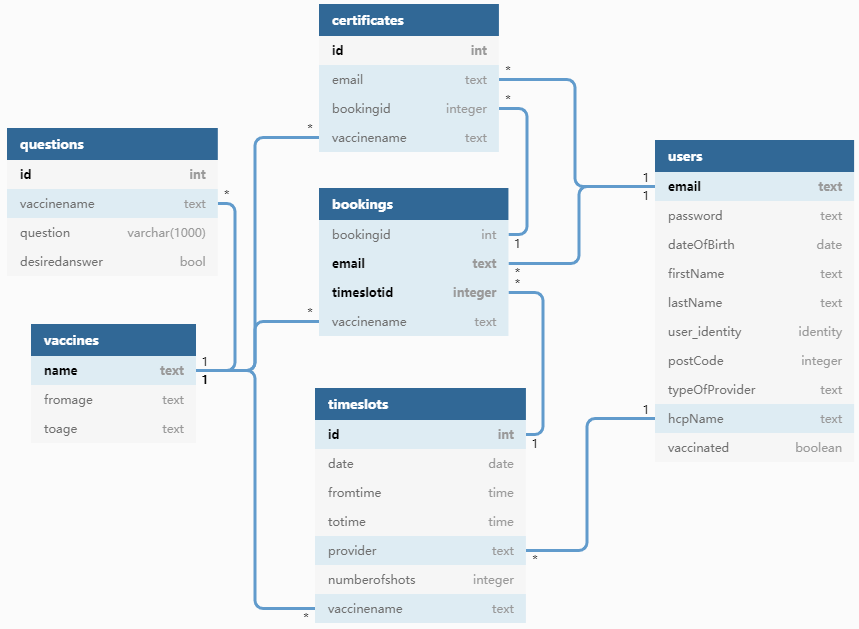
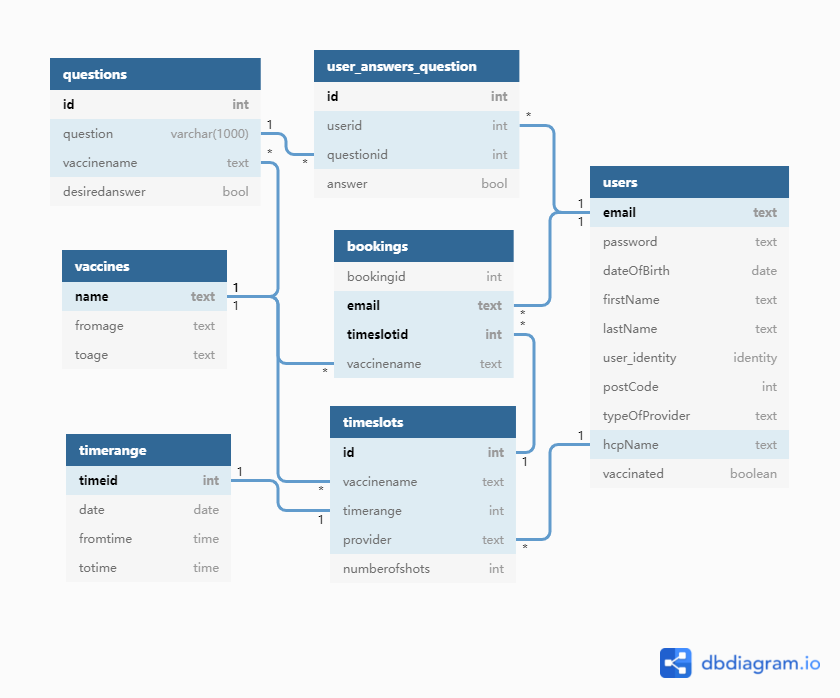
update on database schema and sql in readme

diff --git a/README.md b/README.md
@@ -4,13 +4,13 @@ This repository contains structure related reports and source code for the COVID
 
 Link to application: https://covidvaccinesystem-sda8.herokuapp.com/
 
-**Admin info**
+Admin info
 
 email - admin@gmail.com
 
 password - admin
 
-### **Team Members**
+### Team Members
 
 | Name               | Student ID | Email                               |
 | ------------------ | ---------- | ----------------------------------- |
@@ -19,7 +19,7 @@ password - admin
 | Thomas Capicchiano | 831209     | tcapicchiano@student.unimelb.edu.au |
 | Zhuolun Wu         | 954465     | zhuolunw@student.unimelb.edu.au     |
 
-### **Change Log**
+### Change Log
 
 | Date       | Changes                                                      |
 | ---------- | ------------------------------------------------------------ |
@@ -28,13 +28,13 @@ password - admin
 | 26/09/2021 | Part 2 - Implemented patterns, Detailed Use Case and Architecture Documentation |
 |            |                                                              |
 
-### **Project Overview**
+### Project Overview
 
 The Federal Government has recently released its plan to re-establish a "COVID-normal" in Australia, precipitated primarily on Australians receiving a dose of a COVID-19 vaccine. In order to assist with what is likely the single largest logistical challenge ever faced by this government, they require your help to build a vaccination booking and management system.
 
 The application will be a centralised vaccine management platform that can help public health officials manage vaccine distribution at scale and expedite vaccine administration for a large population. The solution should provide real-time access to vaccine-administration data to support decision-making and distribution efforts.
 
-### **Repository Index**
+### Repository Index
 
 [Part 1 - Use Cases and Domain Model](docs/part1)
 
@@ -55,11 +55,11 @@ The application will be a centralised vaccine management platform that can help 
 
 [Source code](src)
 
-### **Database**
+### Database
+<details>
+<summary>SQL for tables in database</summary>
 
 ```sql
-CREATE TYPE identity AS ENUM ('Admin', 'Health Care Provider', 'Recipient');
-
 CREATE TYPE identity AS ENUM ('Admin', 'Health Care Provider', 'Recipient');
 
 CREATE TABLE users
@@ -129,24 +129,26 @@ CREATE TABLE questions
     FOREIGN KEY (vaccinename) REFERENCES vaccines(name)
 );
 
-CREATE TABLE certificates
+CREATE TABLE user_answers_question
 (
     id SERIAL UNIQUE,
-    email text,
-    bookingid integer,
-    vaccinename text,
+    userid text,
+    questionid integer,
+    answer bool,
     PRIMARY KEY (id),
-    FOREIGN KEY (email) REFERENCES users(email),
-    FOREIGN KEY (bookingid) REFERENCES bookings(bookingid),
-    FOREIGN KEY (vaccinename) REFERENCES vaccines(name)
+    FOREIGN KEY (userid) REFERENCES users(email),
+    FOREIGN KEY (questionid) REFERENCES questions(id)
 );
 
-INSERT INTO users(email, password,user_identity) VALUES ('admin@gmail.com', 'admin','Admin');
+INSERT INTO users(email, password,user_identity) VALUES ('admin@gmail.com', '$shiro1$SHA-256$500000$v4eixUCvn6V9KSudK8Ne7g==$Nelv3843Bf6h3oBPp4EBU+qNCDu+tf5dDGcdQIIngDs=','Admin');
 INSERT INTO vaccines(name, fromAge,toAge) VALUES ('AstraZeneca', '50','200');
 INSERT INTO vaccines(name, fromAge,toAge) VALUES ('Pfizer', '0','200');
 ```
+</details>
 
-### **Part 3 Timeline**
+![](docs\report%20src\database.png)
+
+### Part 3 Timeline
 
 Meeting date: 7/10/2021
 
